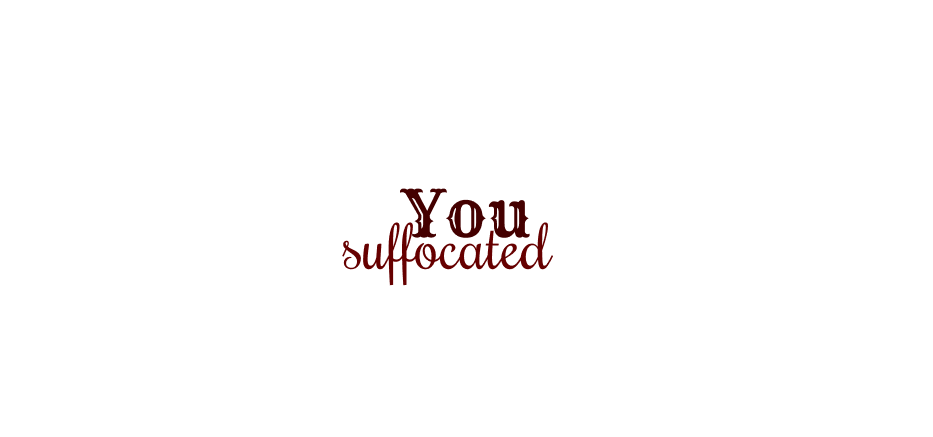
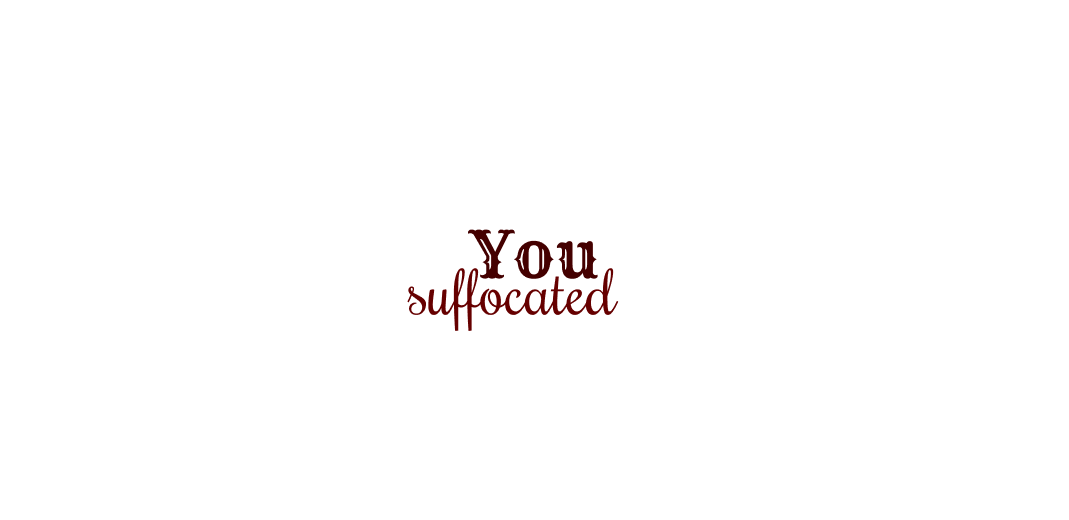
finalização da parte lógica

Changed region(s): [[0.3419, 0.4165, 0.5906, 0.6545]]

diff --git a/Animals page/animals.js b/Animals page/animals.js
@@ -1,20 +1,29 @@
 var animals = ["dog", "cat", "hippo", "rhino", "zebra", "elephant"]
 let rng = Math.floor(Math.random()*animals.length);
 let chosenWord = animals[rng];
-
 let clickedLettersRight = [];
 let clickedLettersWrong = [];
 
 window.onload =  function startGame() {
-    for (let i = 0; i < animals[rng].length; i++) {
-        let wordContainer = `<span id="${"letter-"+i}" class="letterContainer"></span>`;
-        document.getElementById("divTexto").innerHTML += wordContainer;
-        console.log(wordContainer);
-    }
+  for (let i = 0; i < animals[rng].length; i++) {
+    let wordContainer = `<span id="${"letter-"+i}" class="letterContainer"></span>`;
+    document.getElementById("divTexto").innerHTML += wordContainer;
+    console.log(wordContainer);
+}
 }
 
-function gameOver() {
-  window.location.href = "/Game Over/gameover.html"
+function reset() {
+  document.getElementById("divTexto").innerHTML = ""
+  rng = Math.floor(Math.random()*animals.length);
+  chosenWord = animals[rng];
+  clickedLettersRight = []
+  clickedLettersWrong = []
+  console.log(animals[rng])
+  for (let i = 0; i < animals[rng].length; i++) {
+    let wordContainer = `<span id="${"letter-"+i}" class="letterContainer"></span>`;
+    document.getElementById("divTexto").innerHTML += wordContainer;
+    console.log(wordContainer);
+}
 }
 
 function letterClick(letter) {
@@ -22,6 +31,14 @@ function letterClick(letter) {
       let letterIndex = chosenWord.indexOf(letter);
       document.getElementById(`letter-${letterIndex}`).innerText = letter
       clickedLettersRight.push(letter)
+      if (clickedLettersRight.length == chosenWord.length) {
+        animals.splice(rng, 1)
+        if (animals.length == 0) {
+          window.location.href = "/Win page/win.html"
+        }
+        console.log(animals)
+        reset()
+      }
   } else {
     clickedLettersWrong.push(letter)
     switch (clickedLettersWrong.length) {
@@ -47,7 +64,7 @@ function letterClick(letter) {
   }
 }
 
-console.log("Letter:", letter)
-    console.log("Chosen Word:", chosenWord)
-    console.log("Right letters:", clickedLettersRight)
-    console.log("Wrong letters:", clickedLettersWrong)
+function gameOver() {
+  window.location.href = "/Game Over/gameover.html"
+}
+

diff --git a/Game Over/gameover.html b/Game Over/gameover.html
@@ -1,1 +1,16 @@
-<img id="youSuffocated" src="/imagens/youSuffocated.png" alt="You suffocated">
+<!DOCTYPE html>
+<html lang="en">
+<head>
+    <meta charset="UTF-8">
+    <meta http-equiv="X-UA-Compatible" content="IE=edge">
+    <meta name="viewport" content="width=device-width, initial-scale=1.0">
+    <title>Document</title>
+    <link rel="stylesheet" href="/Game Over/gameover.css">
+</head>
+<body>
+    <div id="divSuffocated">
+        <img id="youSuffocated" src="/imagens/youSuffocated.png" alt="You suffocated">
+    </div>  
+    <script src="gameover.js"></script>
+</body>
+</html>

diff --git a/Animals page/animals.css b/Animals page/animals.css
@@ -91,6 +91,8 @@
     height: 100px;
     border-bottom: 2px solid black;
     display: block;
+    font-size: 2em;
+    text-align: center;
 }
 
 #divTexto span {

diff --git a/Game Over/gameover.css b/Game Over/gameover.css
@@ -1,0 +1,6 @@
+#divSuffocated {
+    display: flex;
+    justify-content: center;
+    align-items: center;
+    height: 601px;
+}

diff --git a/Win page/win.html b/Win page/win.html
@@ -1,0 +1,1 @@
+<p>win</p>
